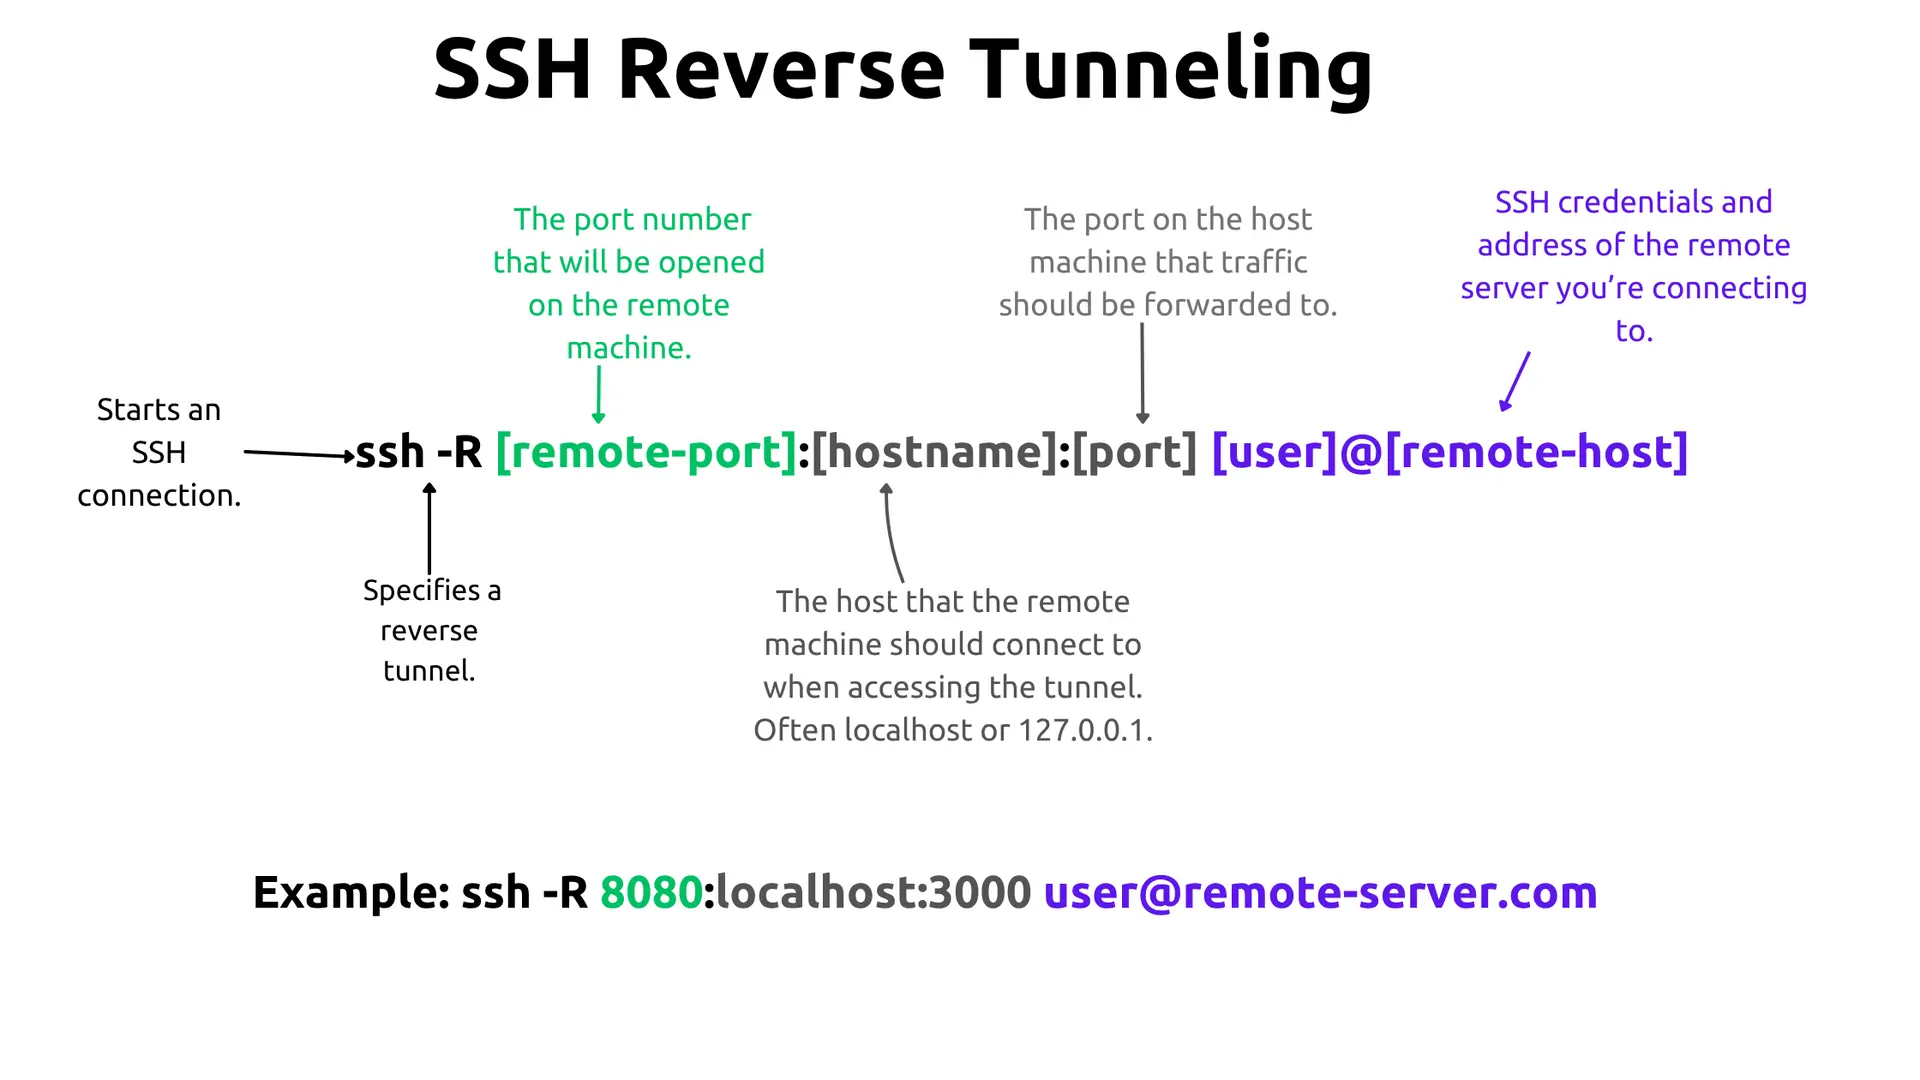
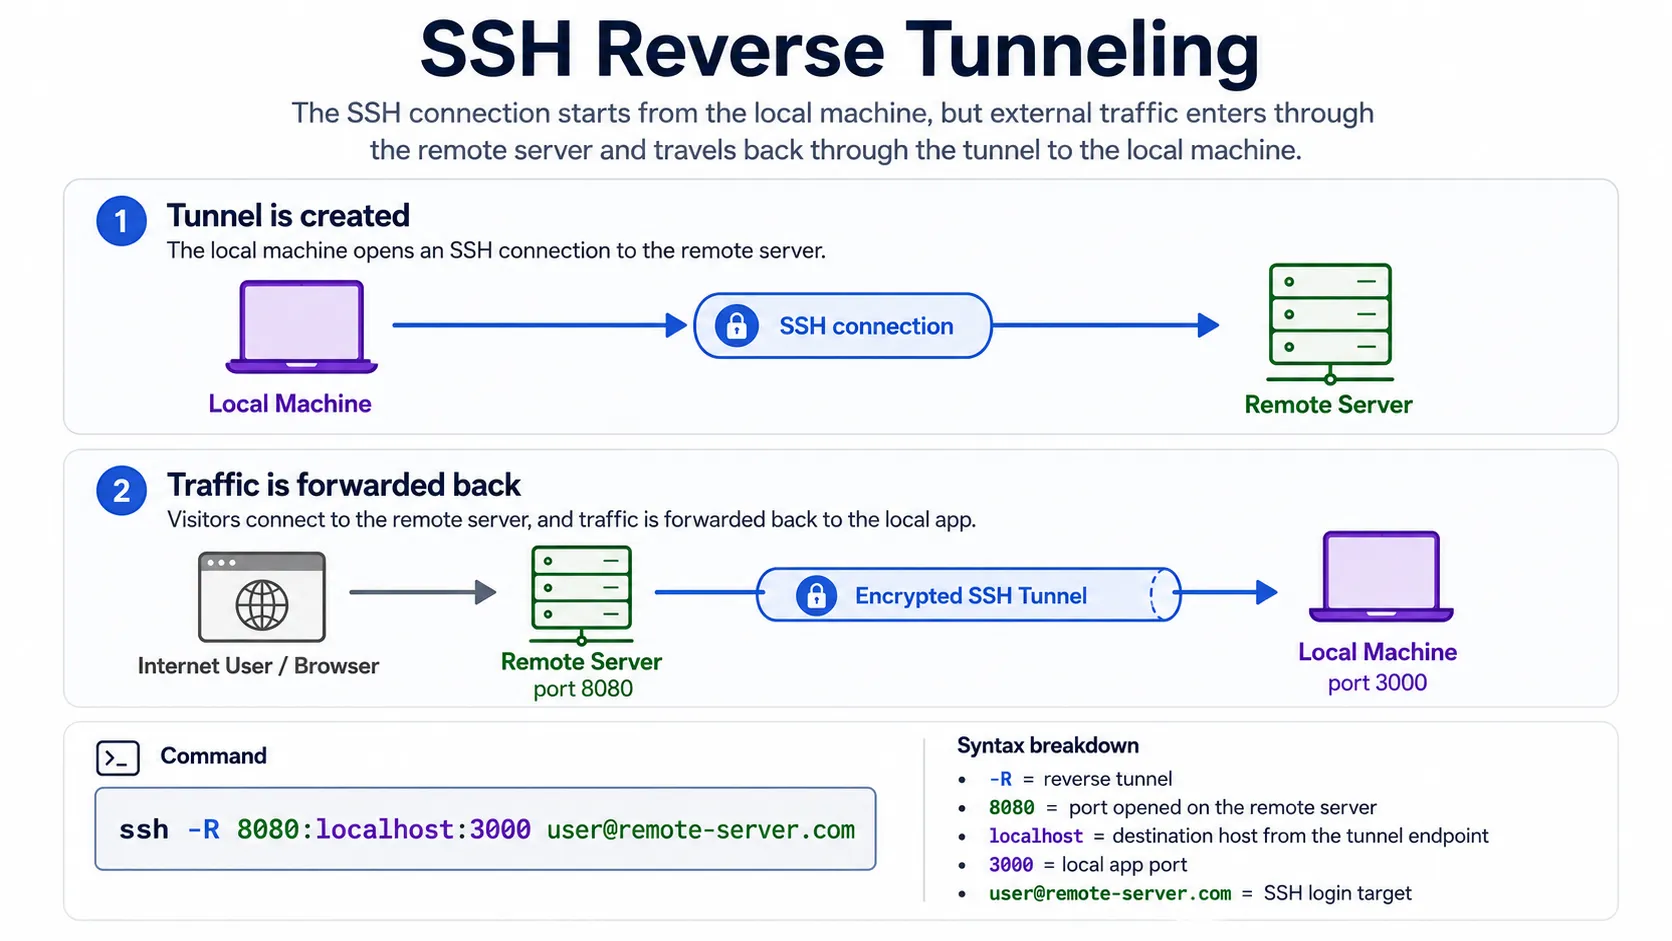
Merge pull request #749 from Pinggy-io/main
Deploy

Pull request: Deploy

Changed region(s): [[0.0311, 0.0, 0.933, 0.7396], [0.0622, 0.7705, 0.9019, 0.9554]]

diff --git a/layouts/partials/footer.html b/layouts/partials/footer.html
@@ -47,6 +47,7 @@
           <li class="mb-1"><a href="/blog/" target="_blank" class="link-light text-decoration-none">Blog</a></li>
           <li class="mb-1"><a href="/tools/" target="_blank" class="link-light text-decoration-none">Tools</a></li>
           <li class="mb-1"><a href="/know_your_port/" target="_blank" class="link-light text-decoration-none">Know Your Ports</a></li>
+          <li class="mb-1"><a href="/llms.txt" target="_blank" class="link-light text-decoration-none">llms.txt</a></li>
         </ul>
       </div>
 

diff --git a/content/blog/ssh_reverse_tunnelling.md b/content/blog/ssh_reverse_tunnelling.md
@@ -2,9 +2,9 @@
  title: "SSH Reverse Tunneling" 
  description: "Learn SSH reverse tunneling to securely access local services from remote locations, even behind firewalls or NATs. Covers IoT control and database access."
  date: 2024-10-23T14:15:25+05:30
- lastmod: 2025-06-02T15:15:25+05:30
+ lastmod: 2026-06-01T15:15:25+05:30
  draft: false 
[2 lines of base64/hex data omitted]
  tags: ["guide","SSH Reverse Tunneling", "NAT/Firewall", "Reverse Proxy"]
  og_image: "images/ssh_reverse_tunnelling/ssh-reverse-tunneling.webp"
  outputs:
@@ -15,7 +15,9 @@
 {{< image "ssh_reverse_tunnelling/ssh-reverse-tunneling.webp" "SSH Reverse Tunnel Command Example" >}}
 
 
-SSH reverse tunneling is a powerful tool that enables secure remote access to systems or services that are behind firewalls or NATs (Network Address Translation). It is often used to provide external access to local systems and services without modifying the network's security settings. In this detailed guide, we will break down SSH reverse tunneling, explain its applications, highlight security practices, and discuss alternatives. We will then discuss how [Pinggy](https://pinggy.io) uses SSH reverse tunneling to share applications and services from localhost.
+SSH lets you forward ports in both directions. The less-obvious direction - reverse tunneling - is what you reach for when the machine running your service can't be reached directly: it's behind a corporate firewall, sitting on a private network, or assigned a dynamic IP with no inbound access. Rather than punching holes in a firewall or configuring port forwarding on a router you may not control, you initiate a connection outward from the restricted machine, and the remote server routes traffic back through that tunnel.
+
+[Pinggy](https://pinggy.io) is built on exactly this mechanic - it handles the public-facing server side so you don't have to run your own.
 
 {{% tldr %}}
 SSH reverse tunneling allows you to expose local services to the internet, bypassing firewalls and NAT restrictions.
@@ -56,6 +58,8 @@ This technique is especially useful for:
 
 The basic principle of reverse SSH tunneling is to create a connection from a remote machine (which could be a server in the cloud) to your local machine using SSH, forwarding a port from the remote system back to a service running on your local system.
 
+{{< image "ssh_reverse_tunnelling/ssh_command.webp" "SH Reverse Tunneling Command" >}}
+
 - **Command Syntax:**
 
     ```
@@ -77,8 +81,6 @@ In this example, any traffic to `remote-server.com:8080` will be forwarded to po
 ## How to Set Up SSH Reverse Tunneling
 
 Setting up SSH reverse tunneling allows you to securely forward traffic from a remote server back to your local machine. The steps may vary depending on your operating system. Here's a guide for **Linux**, **macOS**, and **Windows**.
-
----
 
 ### For Linux
 
@@ -166,8 +168,6 @@ For example, if you want to forward port `8080` on the remote server to port `30
 ssh -R 8080:localhost:3000 [email redacted]
 ```
 
----
-
 ### For Windows
 
 You can set up SSH reverse tunneling on Windows using either OpenSSH (included in Windows 10 and later) or PuTTY.
@@ -214,13 +214,9 @@ You can download PuTTY from the official site: {{< link href="https://www.putty.
 5. Select **Remote**.
 6. Click **Add**, then **Open** to establish the connection.
 
----
-
 #### Step 4: Access the Tunnel (All Platforms)
 
 Once the reverse tunnel is set up, any traffic directed to the remote server (e.g., `remote-server.com:8080`) will be forwarded to your local machine's port (e.g., `localhost:3000`).
-
----
 
 #### Optional Step: Persistent Tunnels
 
@@ -231,50 +227,43 @@ If you want the reverse tunnel to persist across SSH session drops or server reb
 
 #### 1. Remote IoT Device Control
 
-Imagine you have a Raspberry Pi running at home that controls various IoT devices (e.g., sensors, cameras).
+Say you have a Raspberry Pi at home controlling sensors or cameras. The Pi isn't reachable from the internet - it's behind your home router's NAT. From the Pi, open a reverse tunnel to a server you do control:
 
 {{< image "ssh_reverse_tunnelling/Accessing-IOT-devices.webp" "Managing-IOT devices-using-ssh reverse-tunnelling" >}}
-
-SSH reverse tunneling enables you to control and access the Raspberry Pi securely from your office or anywhere else:
-
-- **Setup**: SSH into a remote server with a reverse tunnel command:
 
 ```
 ssh -R 9000:localhost:22 [email redacted]
 ```
 
-Here, `port 9000` on the remote server forwards to port `22` (SSH) on the Raspberry Pi, allowing you to SSH into your Pi through the server:
-`ssh -p 9000 [email redacted]`
+Port 9000 on the remote server now routes to port 22 on the Pi. From anywhere, `ssh -p 9000 [email redacted]` drops you into the Pi's shell as if it were directly public-facing.
 
 #### 2. Remote Database Access
 
-Accessing databases like MySQL that are behind a firewall can be challenging. SSH reverse tunneling allows developers to securely connect to the database from an external location without exposing the database to the public internet.
-
-- **Example**: To access a MySQL database running on localhost:3306 of a local server, you could run:
+A MySQL instance on a dev machine behind a firewall doesn't need to be exposed publicly for a colleague to query it. Tunnel the port out through a shared server:
 
 ```
 ssh -R 3307:localhost:3306 [email redacted]
 ```
 
-Now, the MySQL service can be accessed remotely at `remote-server.com:3307` as though it were running locally.
+After that, `mysql -h remote-server.com -P 3307` connects to the local database as if it were running on the remote server itself. No VPN required, no firewall rules changed.
 
-#### 3. Game Hosting and Network Restrictions
+#### 3. Game Hosting Behind NAT
 
-Some online multiplayer games may require open ports to host sessions, which can be blocked by NAT or firewall rules. SSH reverse tunneling provides an alternative by forwarding traffic from an external server to your local machine:
-
-- **Setup**: If a game server runs on `localhost:25565`, use reverse tunneling to allow friends to connect:
+Some multiplayer games require open inbound ports to host sessions, which home NATs typically block. If a game server runs on `localhost:25565`, a reverse tunnel lets friends connect without router configuration:
 
 ```
 ssh -R 4000:localhost:25565 [email redacted]
 ```
 
-Now others can join your game via `remote-server.com:4000`.
+Others can join via `remote-server.com:4000`. The tunnel acts as a relay, so your home IP stays out of the picture entirely.
 
-#### 4. Troubleshooting and Common Issues
+## Troubleshooting Common Issues
 
-- **Connection Failures**: If your SSH connection fails, ensure that the remote server allows reverse tunneling (check `sshd_config` for the setting `GatewayPorts`).
-- **Authentication Issues**: SSH key issues are common. Ensure that your SSH key is added to the agent using `ssh-add` and use the `-i` flag to specify the key if necessary.
-- **Port Conflicts**: If the remote server's port is already in use, specify a different port or check which process is occupying the port using `lsof -i`.
+A few problems come up regularly with reverse tunnels. If the connection fails outright, the first thing to check is whether the remote server has `GatewayPorts yes` in `/etc/ssh/sshd_config` - without it, the tunnel binds only to `127.0.0.1` on the remote side, not to the public interface.
+
+Authentication errors usually mean the SSH key isn't loaded into the agent. Run `ssh-add` to load the default key, or pass `-i ~/.ssh/your_key` explicitly in the tunnel command.
+
+Port conflicts on the remote side are easy to miss. If the port you specified is already in use, SSH silently continues but the tunnel won't work as expected. Check with `lsof -i :<port>` or `ss -tlnp | grep <port>` on the remote server, and choose a different port if needed.
 
 ## Security Best Practices for SSH Reverse Tunneling
 
@@ -303,33 +292,24 @@ Each method has its trade-offs depending on your needs, but SSH reverse tunnelin
 
 ## How Pinggy Uses SSH Reverse Tunneling
 
-Now that we’ve explored SSH reverse tunneling in detail, let’s look at Pinggy, a service that leverages reverse tunneling to make it easier for developers and users to expose their local services to the internet.
-
-Pinggy provides a simple interface to create secure SSH reverse tunnels without the need for maintaining your own public-facing SSH server. It generates a public URL that routes traffic to your local machine, making it ideal for tasks like webhook testing, remote collaboration, and exposing IoT devices.
-
-Here’s how you can set up an SSH reverse tunnel with Pinggy:
-
-**Basic Tunnel Setup**: You can use the following command to create a reverse tunnel with Pinggy:
+[Pinggy](https://pinggy.io) runs the public-facing SSH server so you don’t have to. Instead of provisioning a VPS and maintaining `sshd_config`, you point a single command at `a.pinggy.io` and get a public URL back immediately:
 
 ```
 ssh -p 443 -R0:localhost:3000 free.pinggy.io
 ```
 
-1. This command does several parts:
+The `-p 443` keeps the connection alive on networks that block port 22. The `R0` tells the server to assign a port dynamically. Pinggy responds with a URL like `https://yourapp.a.pinggy.link` that routes directly to `localhost:3000` on your machine. Share that URL and any request to it transits back through the tunnel to your local service.
 
-- It connects to Pinggy’s public server on port `443` (commonly open in firewalls).
-- The `-R0:localhost:3000` option creates a reverse tunnel that forwards traffic from the generated public URL to `localhost:3000` on your machine, where your local service is running.
-
-2. **Public URL Generation**: After running the command, Pinggy provides a public URL (e.g., `https://yourapp.a.pinggy.link`). You can share this URL with others, and any requests to this URL will be forwarded to your local machine’s service.
-
-**Proxy and Firewall Compatibility**: If your network blocks traditional SSH traffic, Pinggy offers an {{< link href="/app/" >}}App{{< /link >}} that can create a tunnel over SSL. Additional tools like ncat and openssl to tunnel traffic through HTTPS or SSL, ensuring the tunnel remains operational even in restrictive environments. For example:
+If your network runs traffic through an HTTP proxy, you can route the SSH connection through it using `ncat`:
 
 ```
 ssh -p443 -R0:localhost:4000 -o ProxyCommand="ncat --proxy-type http --proxy 192.168.2.2:3128 %h %p" free.pinggy.io
 ```
 
+For networks where even that is blocked, the Pinggy {{< link href="/app/" >}}App{{< /link >}} can establish the tunnel over SSL without a separate SSH client.
+
 ## Conclusion
 
-SSH reverse tunneling is a highly flexible and secure way to expose local services to the internet, especially in environments with restrictive firewalls or NATs. It’s an essential tool for developers, system administrators, and anyone needing remote access to local systems.
+SSH reverse tunneling works reliably in situations where most remote access techniques fall flat: no public IP, no inbound ports open, no control over the network edge. The tradeoff is that you need a reachable server on the other end to anchor the tunnel - which is exactly what Pinggy handles.
 
-[Pinggy](https://pinggy.io) builds on the power of SSH reverse tunneling, providing a user-friendly platform that simplifies tunnel setup and management. Whether you're building and testing APIs, debugging mobile apps in real-time, or managing remote environments, Pinggy simplifies connectivity while prioritizing secure access.
+Whether you’re testing a webhook, debugging a mobile app against a local API, or reaching a device in a remote facility, the pattern stays the same: initiate outward from the restricted machine and let the tunnel route traffic back. Once you’ve internalised that mental model, the `-R` flag stops feeling obscure and starts feeling like the obvious move.

diff --git a/content/blog/forward_ollama_port_11434_online_access.md b/content/blog/forward_ollama_port_11434_online_access.md
@@ -2,6 +2,7 @@
 title: "Forward Ollama Port 11434 for Online Access: Complete Guide"
 description: "Learn how to forward Ollama's default port 11434 to access your local AI models online. Step-by-step guide using secure tunneling for remote Ollama API access."
 date: 2025-09-18T15:00:00+05:30
+lastmod: 2026-06-01T15:00:00+05:30
 draft: false
 tags: ["Ollama", "Port Forwarding", "Tunneling", "AI API", "Remote Access", "LLM Hosting"]
 og_image: "images/forward_ollama_port_11434_online_access/forward_ollama_port_11434_online_access.webp"
@@ -13,9 +14,7 @@ outputs:
 
 {{< image "forward_ollama_port_11434_online_access/forward_ollama_port_11434_online_access.webp" "Forward Ollama Port 11434 for Online Access" >}}
 
-Running AI models locally with Ollama gives you complete control over your data and inference, but what happens when you need to access these models remotely? Whether you're working from different locations, collaborating with team members, or integrating AI into web applications, forwarding Ollama's default port `11434` is the key to unlocking remote access to your local AI models.
-
-This comprehensive guide will show you exactly how to forward Ollama's port `11434` to make your local AI models accessible online using secure tunneling. You'll learn the most effective methods to expose your Ollama API without compromising security or performance.
+Ollama binds to port `11434` on localhost by default. That's fine for local use, but it means nothing outside your machine can reach it - not a teammate on a different device, not a web app on another server, not a mobile client. Forwarding port `11434` through a tunnel fixes that without touching your router or firewall.
 
 
 
@@ -46,21 +45,9 @@ This comprehensive guide will show you exactly how to forward Ollama's port `114
 
 ## Why Forward Ollama Port 11434?
 
-### Understanding Ollama's Default Configuration
-Ollama automatically binds to port `11434` on localhost, making it accessible only from your local machine. This default behavior ensures security but limits functionality when you need remote access. By forwarding port `11434`, you can:
+Ollama's localhost-only default is a reasonable security choice - you don't want an LLM API open to the internet without thinking about it first. But it becomes an obstacle the moment you need to call the API from somewhere else: a CI job, a collaborator's machine, a web app in staging, or a mobile prototype.
 
-- **Access models from anywhere** with an internet connection
-- **Integrate AI into web applications** running on different servers  
-- **Share models with team members** without complex VPN setups
-- **Test applications remotely** before deploying to production
-- **Enable mobile app integration** with your local AI models
-
-### Benefits of Port Forwarding vs Cloud Deployment
-Unlike deploying to cloud services, forwarding port `11434` offers:
-- **Zero cloud costs** - keep everything running locally
-- **Complete data privacy** - your data never leaves your infrastructure
-- **Full model control** - use any model without platform restrictions
-- **Instant deployment** - no complex cloud configurations required
+Forwarding via a tunnel keeps your data local. The model runs on your hardware, inference happens on your machine, and nothing is sent to a cloud GPU provider. Compared to deploying to a hosted service, you also avoid per-token costs and model availability restrictions - run whatever you've pulled with `ollama pull`, not just what the platform supports.
 
 ## Prerequisites for Forwarding Ollama Port 11434
 
@@ -163,7 +150,7 @@ This repository provides complete examples of how to integrate and test your for
 
 ## Adding Open WebUI to Your Forwarded Ollama Setup
 
-Now that you have Ollama's port `11434` forwarded and accessible online, you can enhance the experience by adding Open WebUI for a ChatGPT-like interface:
+If you want a browser UI on top of your forwarded API, Open WebUI pairs well with this setup:
 
 ### Quick Open WebUI Setup:
 1. **Install Open WebUI**:
@@ -174,21 +161,16 @@ Now that you have Ollama's port `11434` forwarded and accessible online, you can
 3. **Access WebUI**: Use the generated URL to access your ChatGPT-like interface
 4. **Connect to Ollama**: Configure WebUI to use your forwarded Ollama API URL
 
-### Why Add Open WebUI:
-- **User-Friendly Interface**: ChatGPT-like chat interface for your models
-- **Document Upload**: RAG capabilities for document-based conversations
-- **Model Management**: Easy switching between different Ollama models
-- **Collaboration**: Share the WebUI URL with team members for easy access
+### Why Add Open WebUI
 
-### Complete Setup:
-For detailed instructions on setting up both Ollama API and Open WebUI together, check out our comprehensive guide: {{< link href="https://pinggy.io/blog/how_to_easily_share_ollama_api_and_open_webui_online/" >}}How to Easily Share Ollama API and Open WebUI Online{{< /link >}}.
+Open WebUI gives you a chat interface in the browser - useful for team members who don't want to write curl commands. It supports document uploads for RAG-style conversations and lets you switch between models without touching the terminal. Once the port is forwarded, you can share the WebUI URL with anyone and they get a usable interface to your local models without needing their own Ollama setup.
 
-This combination gives you both programmatic API access (via forwarded port `11434`) and a user-friendly web interface for interacting with your local AI models.
+### Complete Setup
+
+For detailed instructions on running both Ollama API and Open WebUI together, see: {{< link href="https://pinggy.io/blog/how_to_easily_share_ollama_api_and_open_webui_online/" >}}How to Easily Share Ollama API and Open WebUI Online{{< /link >}}.
 
 ## Conclusion
 
-Forwarding Ollama's port `11434` opens up a world of possibilities for remote AI model access. Whether you're building applications, collaborating with team members, or simply need access to your models from different locations, this approach provides a secure and efficient solution.
+Forwarding port `11434` with a tunnel is the quickest path from "model works on my machine" to "model is callable from anywhere" - without a cloud account, without firewall changes, and without the model leaving your hardware.
 
-The combination of Ollama's powerful local inference capabilities with Pinggy's secure tunneling creates an ideal setup for developers who want the benefits of cloud accessibility without sacrificing data privacy or incurring cloud costs.
-
-Remember to always implement proper security measures when exposing your local services online, and consider upgrading to professional tunneling solutions for production use cases.
+For personal use and development, Pinggy's free tier handles this well. If you're running this for a team or integrating it into a production service, look at Pinggy's persistent subdomain options or consider whether a proper auth layer in front of the API makes sense for your threat model.

diff --git a/layouts/shortcodes/ssh_command.md b/layouts/shortcodes/ssh_command.md
@@ -1,0 +1,21 @@
+{{- $text := .Get "text" | default "" -}}
+{{- $clionly := .Get "clionly" | default "false" -}}
+{{- if ne $text "" -}}
+```bash
+{{ $text }}
+```
+{{- else -}}
+{{- $cmd := .Inner | transform.Unmarshal | transform.Unmarshal -}}
+{{- with $cmd.ssh }}{{ if ne $clionly "true" }}
+```bash
+# SSH - no install, works anywhere the ssh client is available
+{{ replace .linux.ps "a.pinggy.io" "free.pinggy.io" }}
+```
+{{ end }}{{ end -}}
+{{- with $cmd.cli }}
+```bash
+# Pinggy CLI - install with: npm install -g pinggy (or download the binary)
+{{ replace .linux.ps "a.pinggy.io" "free.pinggy.io" }}
+```
+{{ end -}}
+{{- end -}}

diff --git a/layouts/shortcodes/pinggytunnel.md b/layouts/shortcodes/pinggytunnel.md
@@ -1,0 +1,13 @@
+{{- $mode := .Get "mode" | default "http" -}}
+{{- $localport := .Get "localport" | default "8000" -}}
+{{- $prefixes := dict "http" "" "tcp" "tcp@" "tls" "tls@" "udp" "udp@" -}}
+{{- $prefix := index $prefixes $mode | default "" -}}
+{{- with .Get "tryYourselfText" }}
+**{{ . }}**
+{{ end }}
+```bash
+# {{ upper $mode }} tunnel forwarding localhost:{{ $localport }}
+ssh -p 443 -R0:localhost:{{ $localport }} {{ $prefix }}free.pinggy.io
+```
+{{ with .Inner }}{{ . }}{{ end }}
+Configure more options (authentication, web debugger, custom domains, IP whitelisting, header rules) interactively at {{ .Page.Permalink }}

diff --git a/layouts/shortcodes/tab.md b/layouts/shortcodes/tab.md
@@ -1,0 +1,11 @@
+{{- if .Parent -}}
+{{- $name := trim (.Get "name") " " -}}
+{{- if not (.Parent.Scratch.Get "tabs") -}}
+{{- .Parent.Scratch.Set "tabs" slice -}}
+{{- end -}}
+{{- with .Inner -}}
+{{- $.Parent.Scratch.Add "tabs" (dict "name" $name "content" .) -}}
+{{- end -}}
+{{- else -}}
+{{- errorf "[%s] %q: tab shortcode missing its parent" site.Language.Lang .Page.Path -}}
+{{- end -}}

diff --git a/content/docs/_index.md b/content/docs/_index.md
@@ -3,6 +3,13 @@
  description: "Start using Pinggy in three simple steps. Host websites, receive webhooks, share files, and connect to your localhost remotely with ease."
  date: 2023-01-10T14:15:25+05:30 
  draft: false 
+ cascade:
+   - target:
+       kind: page
+     outputs: ["HTML", "AMP", "Markdown"]
+   - target:
+       kind: section
+     outputs: ["HTML", "RSS", "Markdown"]
 ---
 
 # Pinggy - Quickstart

diff --git a/layouts/docs/list.md b/layouts/docs/list.md
@@ -1,0 +1,6 @@
+# {{ .Title }}
+
+> {{ .Description }}
+> Source: {{ .Permalink }}
+
+{{ .RenderShortcodes }}

diff --git a/layouts/docs/single.md b/layouts/docs/single.md
@@ -1,0 +1,6 @@
+# {{ .Title }}
+
+> {{ .Description }}
+> Source: {{ .Permalink }}
+
+{{ .RenderShortcodes }}

diff --git a/layouts/shortcodes/tabs.md b/layouts/shortcodes/tabs.md
@@ -1,0 +1,6 @@
+{{- with .Inner }}{{ end -}}
+{{ range $idx, $tab := .Scratch.Get "tabs" }}
+#### {{ .name }}
+
+{{ .content }}
+{{ end }}

diff --git a/layouts/shortcodes/image.md b/layouts/shortcodes/image.md
@@ -1,0 +1,5 @@
+{{- $imageName := .Get 0 -}}
+{{- $altText := .Get 1 | default $imageName -}}
+{{- with resources.GetMatch (printf "images/%s" $imageName) -}}
+{{ printf "![%s](%s)" $altText .RelPermalink }}
+{{- end -}}

diff --git a/layouts/shortcodes/figure.md b/layouts/shortcodes/figure.md
@@ -1,0 +1,1 @@
+{{ printf "![%s](%s)" (.Get "alt" | default "") (.Get "src") }}